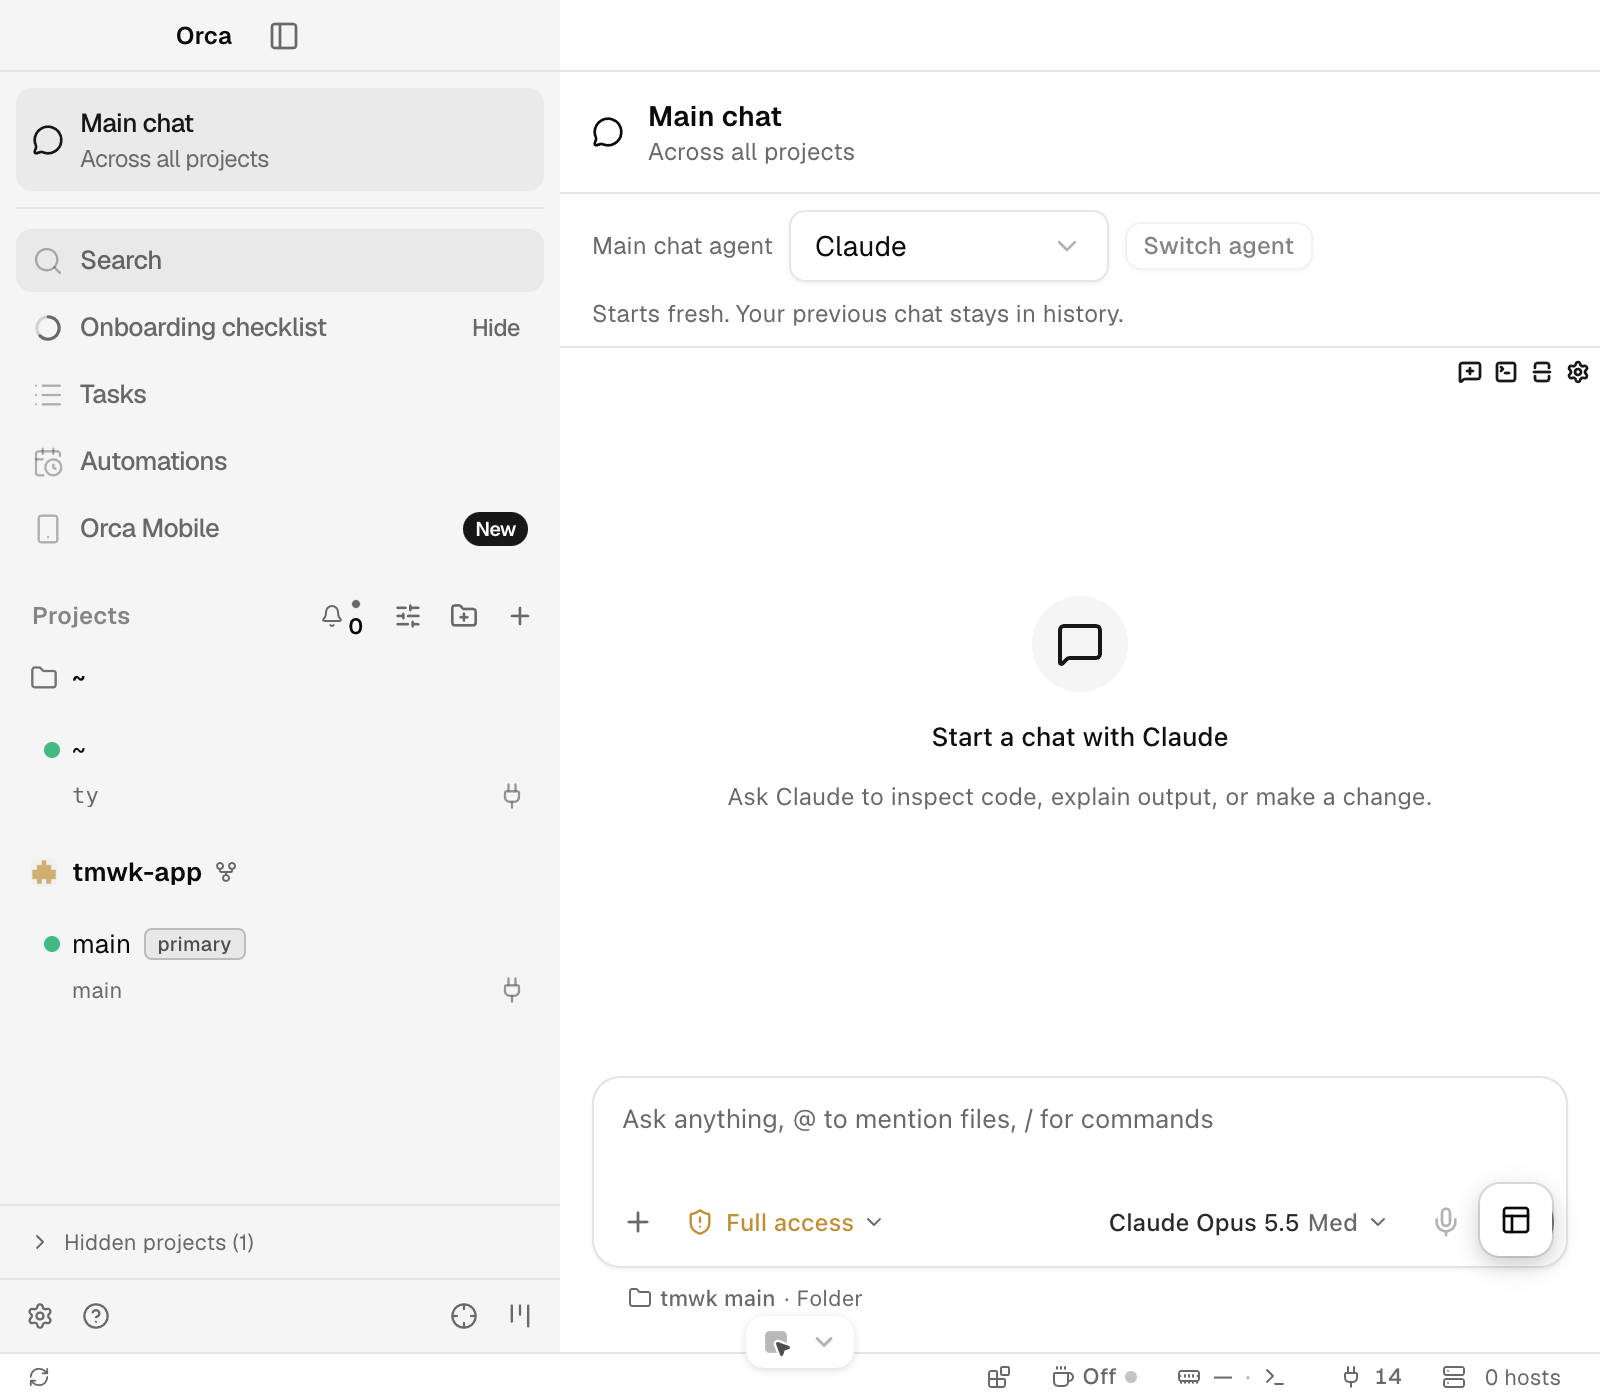
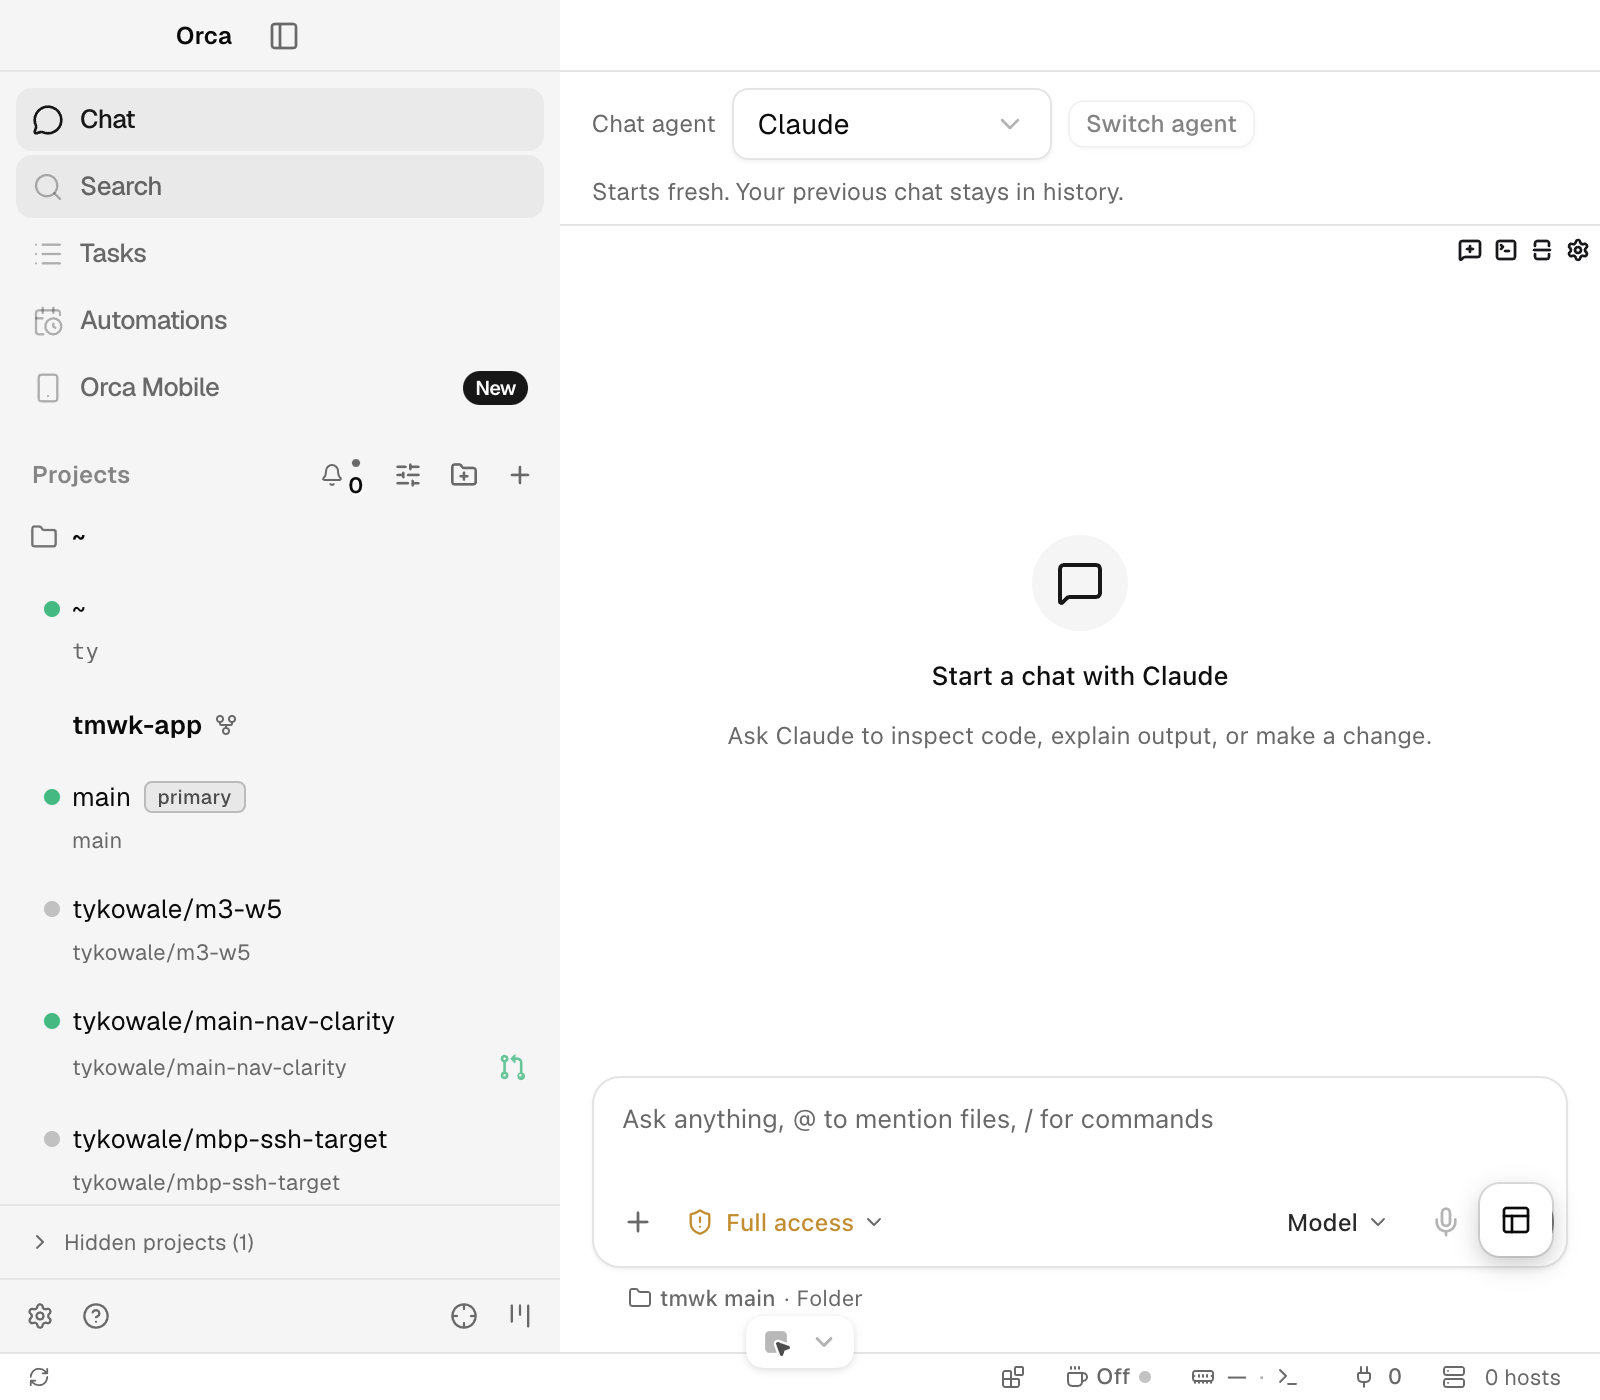
refactor(tmwk): simplify Chat navigation and refresh review screenshots

diff --git a/src/renderer/src/components/main-chat/MainChatSidebarEntry.tsx b/src/renderer/src/components/main-chat/MainChatSidebarEntry.tsx
@@ -9,29 +9,22 @@ export function MainChatSidebarEntry(): React.JSX.Element {
   const openMainPage = useAppStore((s) => s.openMainPage)
   const active = useAppStore((s) => s.activeView === 'main')
   return (
-    <div className="mb-2 border-b border-worktree-sidebar-border pb-2">
-      <button
-        type="button"
-        onClick={openMainPage}
-        aria-current={active ? 'page' : undefined}
-        data-current={active ? 'true' : undefined}
-        className={cn(
-          'flex w-full items-center gap-2 rounded-md px-2 py-2 text-left text-[13px] font-medium tracking-tight transition-colors',
-          active
-            ? 'bg-worktree-sidebar-accent text-worktree-sidebar-accent-foreground'
-            : 'text-worktree-sidebar-foreground/60 hover:bg-worktree-sidebar-accent'
-        )}
-      >
-        <MessageCircle
-          className={cn('size-4 shrink-0', !active && 'text-worktree-sidebar-foreground/30')}
-        />
-        <span className="min-w-0 flex-1">
-          <span className="block truncate">{t('tmwk.mainChat.title', 'Main chat')}</span>
-          <span className="block text-xs font-normal opacity-60">
-            {t('tmwk.mainChat.scope', 'Across all projects')}
-          </span>
-        </span>
-      </button>
-    </div>
+    <button
+      type="button"
+      onClick={openMainPage}
+      aria-current={active ? 'page' : undefined}
+      data-current={active ? 'true' : undefined}
+      className={cn(
+        'flex w-full items-center gap-2 rounded-md px-2 py-1.5 text-left text-[13px] font-medium tracking-tight transition-colors outline-none focus-visible:ring-2 focus-visible:ring-worktree-sidebar-ring',
+        active
+          ? 'bg-worktree-sidebar-accent text-worktree-sidebar-accent-foreground'
+          : 'text-worktree-sidebar-foreground/60 hover:bg-worktree-sidebar-foreground/8'
+      )}
+    >
+      <MessageCircle
+        className={cn('size-4 shrink-0', !active && 'text-worktree-sidebar-foreground/30')}
+      />
+      <span className="min-w-0 flex-1 truncate">{t('tmwk.mainChat.title', 'Chat')}</span>
+    </button>
   )
 }

diff --git a/src/renderer/src/components/main-chat/MainChatView.tsx b/src/renderer/src/components/main-chat/MainChatView.tsx
@@ -1,5 +1,4 @@
 import React, { Activity, useMemo } from 'react'
-import { MessageCircle } from 'lucide-react'
 import { useAppStore } from '@/store'
 import { useTranslate } from '@/i18n/use-translate'
 import {
@@ -80,31 +79,13 @@ function MainChatSurface({
 export default function MainChatView(): React.JSX.Element {
   const t = useTranslate()
   const session = useMainChatSession()
-  return (
-    <div className="flex h-full min-h-0 flex-col bg-background">
-      <header className="flex shrink-0 items-center gap-3 border-b border-border px-4 py-3">
-        <MessageCircle className="size-4 shrink-0" />
-        <div className="min-w-0">
-          <h1 className="text-sm font-semibold">{t('tmwk.mainChat.title', 'Main chat')}</h1>
-          <p className="text-xs text-muted-foreground">
-            {t('tmwk.mainChat.scope', 'Across all projects')}
-          </p>
-        </div>
-      </header>
-      <div className="min-h-0 flex-1">
-        {!session.tab ? (
-          <MainChatStatus>
-            {session.error ??
-              t('auto.components.main-chat.MainChatView.b52e7c9d18', 'Preparing your main chat...')}
-          </MainChatStatus>
-        ) : (
-          <MainChatSurface
-            tab={session.tab}
-            agents={session.agents}
-            onSwitch={session.setSession}
-          />
-        )}
-      </div>
-    </div>
-  )
+  if (!session.tab) {
+    return (
+      <MainChatStatus>
+        {session.error ??
+          t('auto.components.main-chat.MainChatView.b52e7c9d18', 'Preparing your chat...')}
+      </MainChatStatus>
+    )
+  }
+  return <MainChatSurface tab={session.tab} agents={session.agents} onSwitch={session.setSession} />
 }

diff --git a/src/renderer/src/app-shell/AppWorkspaceShell.tsx b/src/renderer/src/app-shell/AppWorkspaceShell.tsx
@@ -15,7 +15,6 @@ import { TitlebarLeftControls } from './chrome/TitlebarLeftControls'
 import { RightSidebarToggle, TitlebarMainStrip } from './chrome/TitlebarMainStrip'
 import type { AppChromeLayout } from './chrome/use-app-chrome-layout'
 import type { FloatingWorkspacePanelState } from '../components/floating-terminal/workspace/use-floating-workspace-panel'
-import { ProjectWorkspaceHeading } from '../components/main-chat/ProjectWorkspaceHeading'
 
 // Skips the shell render each workspace switch causes; its props only change on toggle.
 const MemoFloatingTerminalToggleButton = memo(FloatingTerminalToggleButton)
@@ -213,11 +212,6 @@ export function AppWorkspaceShell(props: {
                   </div>
                 )}
                 <div className="flex flex-1 min-w-0 min-h-0 flex-col">
-                  {layout.activeView === 'terminal' &&
-                  layout.hasActiveWorktree &&
-                  !layout.creationLayoutActive ? (
-                    <ProjectWorkspaceHeading />
-                  ) : null}
                   {layout.shouldMountTerminalWorkbench ? (
                     <TerminalWorkbenchContainer isVisible={layout.terminalWorkbenchVisible}>
                       <Suspense fallback={null}>

diff --git a/src/renderer/src/components/main-chat/MainChatAgentSwitcher.tsx b/src/renderer/src/components/main-chat/MainChatAgentSwitcher.tsx
@@ -58,12 +58,9 @@ export function MainChatAgentSwitcher({
   }
   return (
     <div className="flex flex-wrap items-center gap-2 border-b border-border px-4 py-2 text-xs">
-      <span className="text-muted-foreground">{t('tmwk.mainChat.agent', 'Main chat agent')}</span>
+      <span className="text-muted-foreground">{t('tmwk.mainChat.agent', 'Chat agent')}</span>
       <Select value={agent} onValueChange={setAgent} disabled={pending}>
-        <SelectTrigger
-          className="h-7 w-40"
-          aria-label={t('tmwk.mainChat.agent', 'Main chat agent')}
-        >
+        <SelectTrigger className="h-7 w-40" aria-label={t('tmwk.mainChat.agent', 'Chat agent')}>
           <SelectValue />
         </SelectTrigger>
         <SelectContent>

diff --git a/docs/tmwk/main-nav-clarity/README.md b/docs/tmwk/main-nav-clarity/README.md
@@ -1,50 +1,69 @@
-# Main chat and project context
+# Chat selection clarity
 
-Main chat now sits first in its own sidebar block, labeled **Main chat — Across all projects**.
-The content area repeats that identity, including during startup or an unavailable home host.
-Opening a project shows **Project workspace** and its project/workspace names instead.
-The last project card no longer stays highlighted while Main chat is selected.
+**Chat** is a compact, single-line destination above Search, outside Projects. Opening it
+clears the remembered workspace's displayed highlight while preserving that workspace for
+return navigation. The project's literal `main` name and primary badge stay unchanged.
+
+There is no scope subtext, separate Chat block or added content header. The existing agent
+toolbar says **Chat agent**, which also identifies the conversation with the sidebar closed.
+Inactive hover is quieter than current selection; a focus-visible ring identifies keyboard
+focus independently of the selected destination.
 
 | Context                  | Before                                          | After                                         |
 | ------------------------ | ----------------------------------------------- | --------------------------------------------- |
-| Main chat                | ![Main chat before](before-main-chat.png)       | ![Main chat after](after-main-chat.png)       |
+| Chat                     | ![Chat before](before-main-chat.png)            | ![Chat after](after-main-chat.png)            |
 | Primary `main` workspace | ![Project main before](before-project-main.png) | ![Project main after](after-project-main.png) |
 
-Additional screenshots: [nonprimary worktree](after-project-worktree.png),
-[dark Main chat](after-main-chat-dark.png), [dark project main](after-project-main-dark.png),
-[collapsed sidebar](after-main-chat-collapsed.png), [narrow Main chat](after-main-chat-narrow.png),
-and [narrow project main](after-project-main-narrow.png).
+Additional captures:
+
+| State                                 | Light                                  | Dark                                       |
+| ------------------------------------- | -------------------------------------- | ------------------------------------------ |
+| Chat selected                         | [Light](after-main-chat.png)           | [Dark](after-main-chat-dark.png)           |
+| Primary `main` selected               | [Light](after-project-main.png)        | [Dark](after-project-main-dark.png)        |
+| Visible nonprimary workspace selected | [Light](after-project-worktree.png)    | [Dark](after-project-worktree-dark.png)    |
+| Keyboard focus on inactive Chat       | [Light](after-chat-focus-inactive.png) | [Dark](after-chat-focus-inactive-dark.png) |
+| Keyboard focus on current Chat        | [Light](after-chat-focus-active.png)   | [Dark](after-chat-focus-active-dark.png)   |
+
+Also: [collapsed sidebar](after-main-chat-collapsed.png), [narrow Chat](after-main-chat-narrow.png),
+and [narrow project](after-project-main-narrow.png).
 
 ## Validation
 
-The background dev app used `/tmp/tmwk-nav-review/ud` as an isolated profile and
-`/tmp/tmwk-nav-review/tmwk` as its main-chat home. It was launched with a clean environment,
+The app runs in the background with `/tmp/tmwk-nav-review/ud` as an isolated profile and
+`/tmp/tmwk-nav-review/tmwk` as its main-chat home. A clean launch environment includes
 `ORCA_BACKGROUND_LAUNCH=1`, `VITE_EXPOSE_STORE=true`, renderer port 15477 and CDP port 9477.
-Playwright connected over CDP to the hidden renderer; no window activation or focus calls
-were used. The unavailable `$electron` skill was replaced by this repo's documented CDP
-pattern with the coordinator's authorization.
+Playwright uses CDP against the hidden renderer; no OS window activation is used. DOM focus
+and keyboard events stay inside that renderer. The unavailable `$electron` skill is replaced
+by the repo's documented CDP pattern, as authorized earlier in this task.
 
-Screenshots use a 1440 × 900 CSS viewport, with 800 × 700 for narrow checks; the original
-before-project capture uses the native 1710 × 1073 viewport. PNGs are at 2× display scale.
-The project is the existing `tmwk-app` checkout, with its primary `main` workspace and
-detected `tykowale/main-nav-clarity` worktree. The main chat is an empty, real Claude session.
+Current screenshots use a 1440 × 900 CSS viewport, with 800 × 700 for narrow captures, at 2×
+display scale. The original before-project capture uses 1710 × 1073. The project is the
+existing `tmwk-app` checkout with its primary `main` and visible `tykowale/main-nav-clarity`
+worktree. The conversation is an empty, real Claude session. Pointer screenshots place the
+pointer over content, outside the sidebar; keyboard screenshots deliberately show focus.
 
-DOM assertions verified the Main chat heading, no active workspace cards in Main chat,
-an inactive Main chat navigation entry in the project view, the primary and nonprimary
-workspace headings, a folder workspace heading without duplicated names, and the
-heading remaining visible with the sidebar collapsed. At 800 pixels wide with both
-sidebars open, the primary workspace name `main` remains visible without truncation.
-Light and dark screenshots were visually inspected.
+DOM assertions passed in light and dark for:
 
-Local checks:
+- Chat current with no current workspace rows or active workspace cards, including after
+  focus moves into the composer.
+- Primary `main` current with Chat idle and exactly one active workspace card.
+- The visible nonprimary workspace current with primary `main` and Chat idle, including
+  after hovering Chat and moving the pointer away.
+- Inactive Chat keyboard focus without changing the current workspace; Enter then selects
+  Chat and removes the remembered-workspace highlight.
+- Keyboard focus on current Chat distinct from its persistent current fill.
+- Returning from Chat to a workspace and reopening Chat preserves exclusive selection.
 
-- `ORCA_BACKGROUND_LAUNCH=1 pnpm tc`
-- `ORCA_BACKGROUND_LAUNCH=1 pnpm check:changed` against `origin/main`
-- `ORCA_BACKGROUND_LAUNCH=1 pnpm test src/renderer/src/components/sidebar/worktree-list/navigation/sidebar-workspace-delete.test.tsx src/renderer/src/store/slices/worktrees/session/selected-host-active-workspace-identity.test.ts --maxWorkers=2` — two tests passed
+Keyboard ArrowDown/Enter also activated one visible project workspace, and keyboard Enter
+on Chat removed its highlight. Closing/reopening the sidebar preserved Chat selection and
+left the existing Chat agent control visible. Both narrow states were captured. Screenshots
+were visually inspected.
 
-No copy or CSS tests were added. Remote hosts, Windows/Linux, and the separate mobile app
-were not exercised; the heading reuses existing host-aware workspace/repository selectors
-and introduces no platform-specific logic.
+Local checks use `ORCA_BACKGROUND_LAUNCH=1`: `pnpm tc`, `pnpm check:changed` against
+`origin/main`, and the existing sidebar-workspace-delete and selected-host-active-workspace-identity
+tests with `--maxWorkers=2`. No copy or CSS tests were added.
 
-The fork ownership map records the one-line Extend selection exclusion in `WorktreeList`
-and the shell/sidebar registration patches. Main-chat presentation stays in Own files.
+Remote hosts, Windows/Linux and the separate mobile app were not exercised. This change
+adds no platform-specific logic or new workspace identity handling. The ownership map logs
+the sidebar registration and the single Extend selection exclusion; presentation stays in
+Own main-chat files.

diff --git a/docs/tmwk/fork-ownership.md b/docs/tmwk/fork-ownership.md
@@ -140,8 +140,7 @@ Pull upstream on a weekly cadence, not continuously:
 
 One line per patch: path, what it adds, and why.
 
-- `src/renderer/src/components/sidebar/chrome/SidebarNav.tsx`: places the Own main-chat entry first, separated from navigation and project workspaces.
-- `src/renderer/src/app-shell/AppWorkspaceShell.tsx`: mounts the Own project workspace heading above the active workbench.
+- `src/renderer/src/components/sidebar/chrome/SidebarNav.tsx`: places the Own Chat entry first in global navigation, outside Projects.
 - `src/renderer/src/components/sidebar/worktree-list/listing/WorktreeList.tsx`: excludes the main-chat view from active-card highlighting so only the current destination looks selected.
 
 - `AGENTS.md`: adds the "tmwk Fork" section at the top, pointing to this map, so every agent
